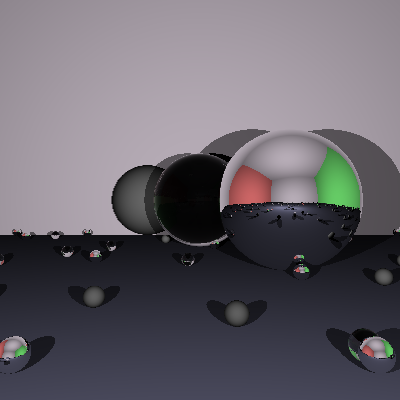
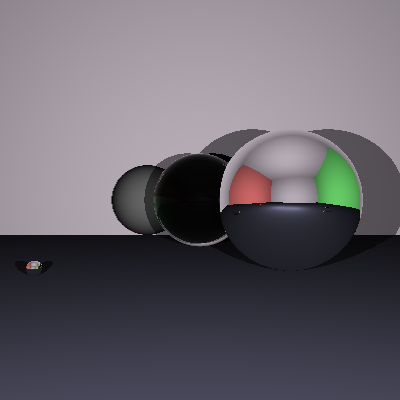
final scene edits

diff --git a/tests/final_scene.py b/tests/final_scene.py
@@ -37,7 +37,7 @@ def gen():
     f.write('Plane "Right" (' + str(sidelen) + ', 0, 0) (-1, 0, 0) "GreenMat"\n')
     f.write('\n')
 
-    for i in range(1, 201):
+    for i in range(1, 11):
         x = random.uniform(-sidelen, sidelen)
         z = random.uniform(-sidelen, sidelen)
 
